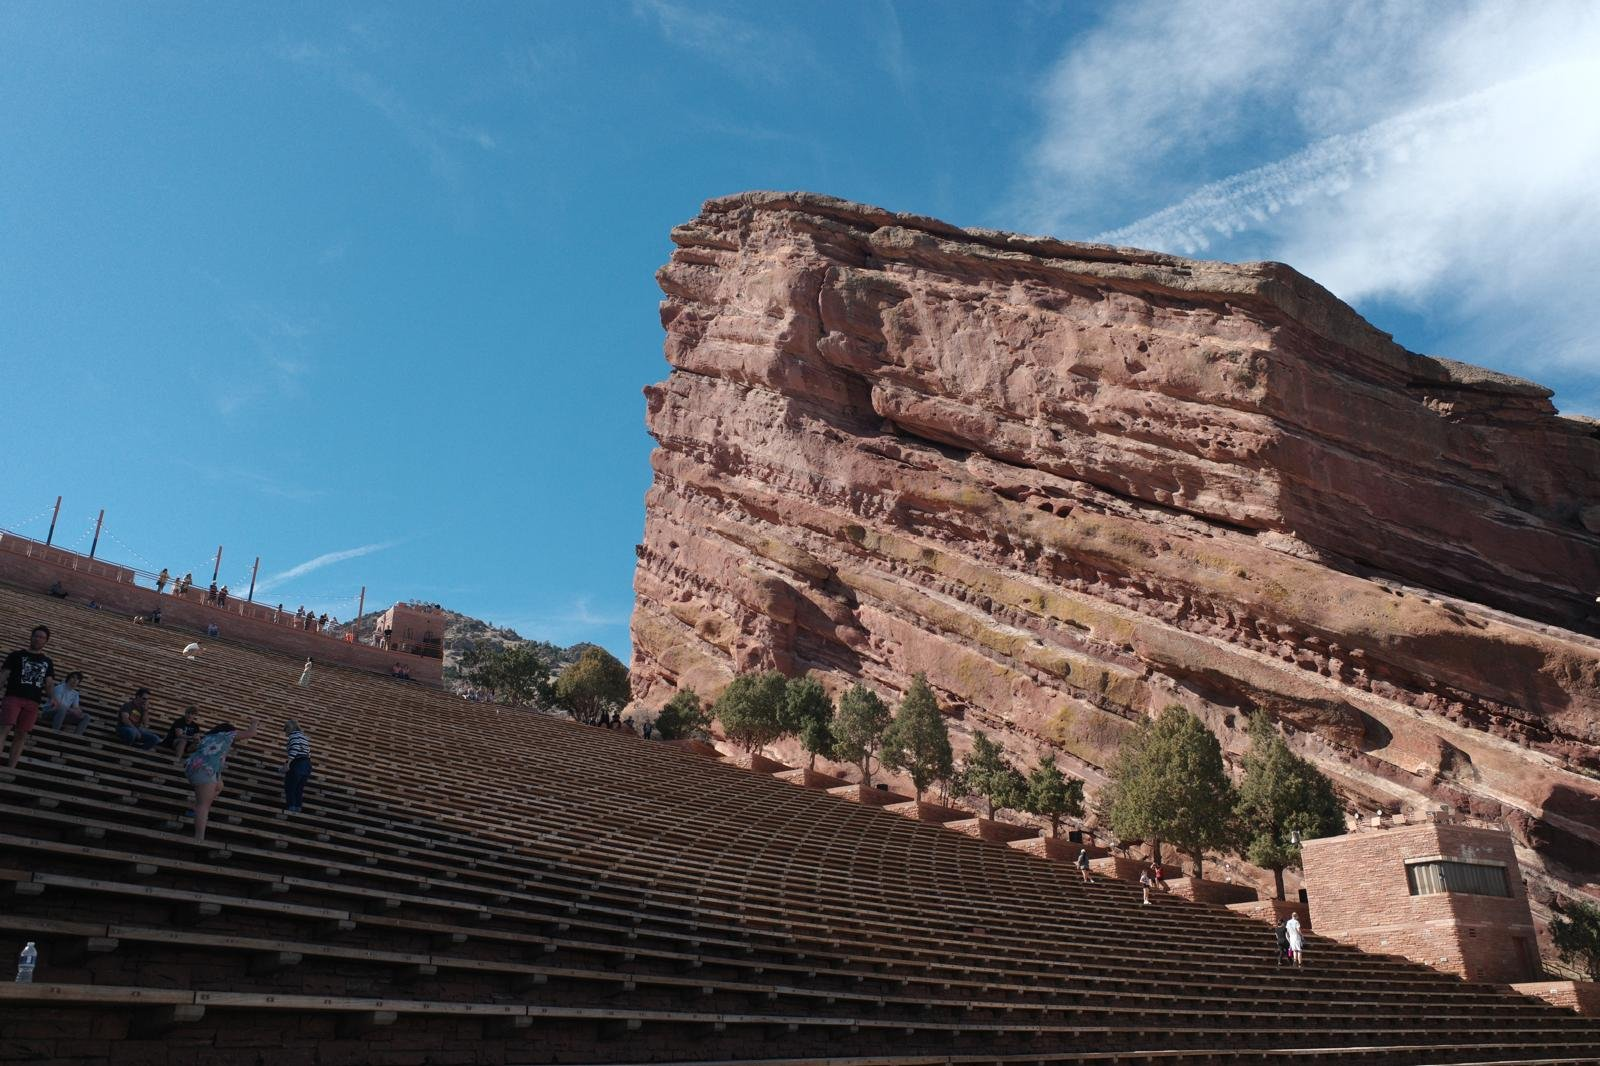
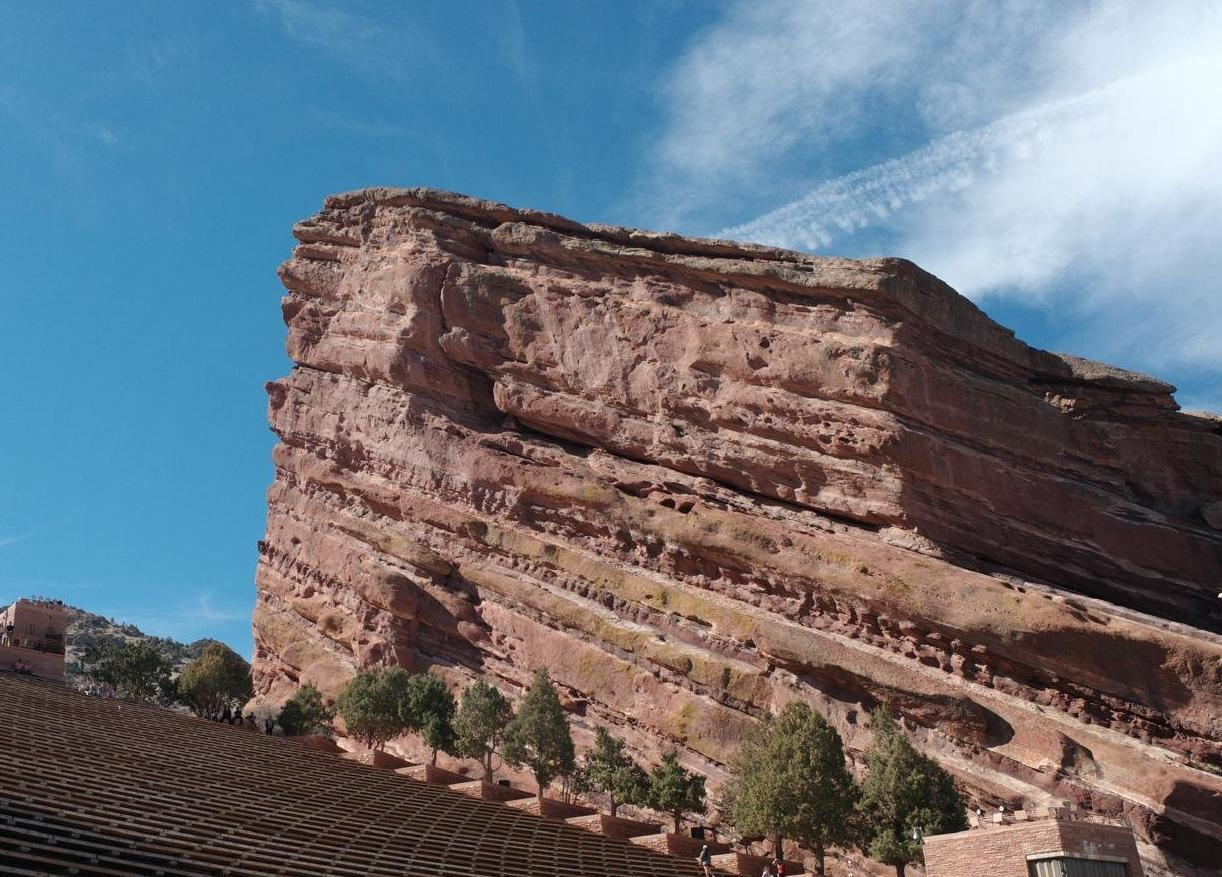
Use the cropped Red Rocks shot as the post thumbnail
Keeps the crop as made; the thumbnail copy is just resized to 800px so it
matches the rest of the set and the grid does not load a full-size file
(181KB -> 90KB).

Claude-Session: https://claude.ai/code/session_017ZG9gcDnN1steAWaaGPJw2

diff --git a/_posts/2026-03-01-aps-global-physics-summit-2026.md b/_posts/2026-03-01-aps-global-physics-summit-2026.md
@@ -5,7 +5,7 @@ date: 2026-03-01 09:00:00
 date_display: March 2026
 description:
 categories: travel
-thumbnail: assets/img/blog/aps-denver-2026/thumbs/04.jpg
+thumbnail: assets/img/blog/aps-denver-2026/thumbs/20.jpg
 giscus_comments: false
 related_posts: false
 ---
